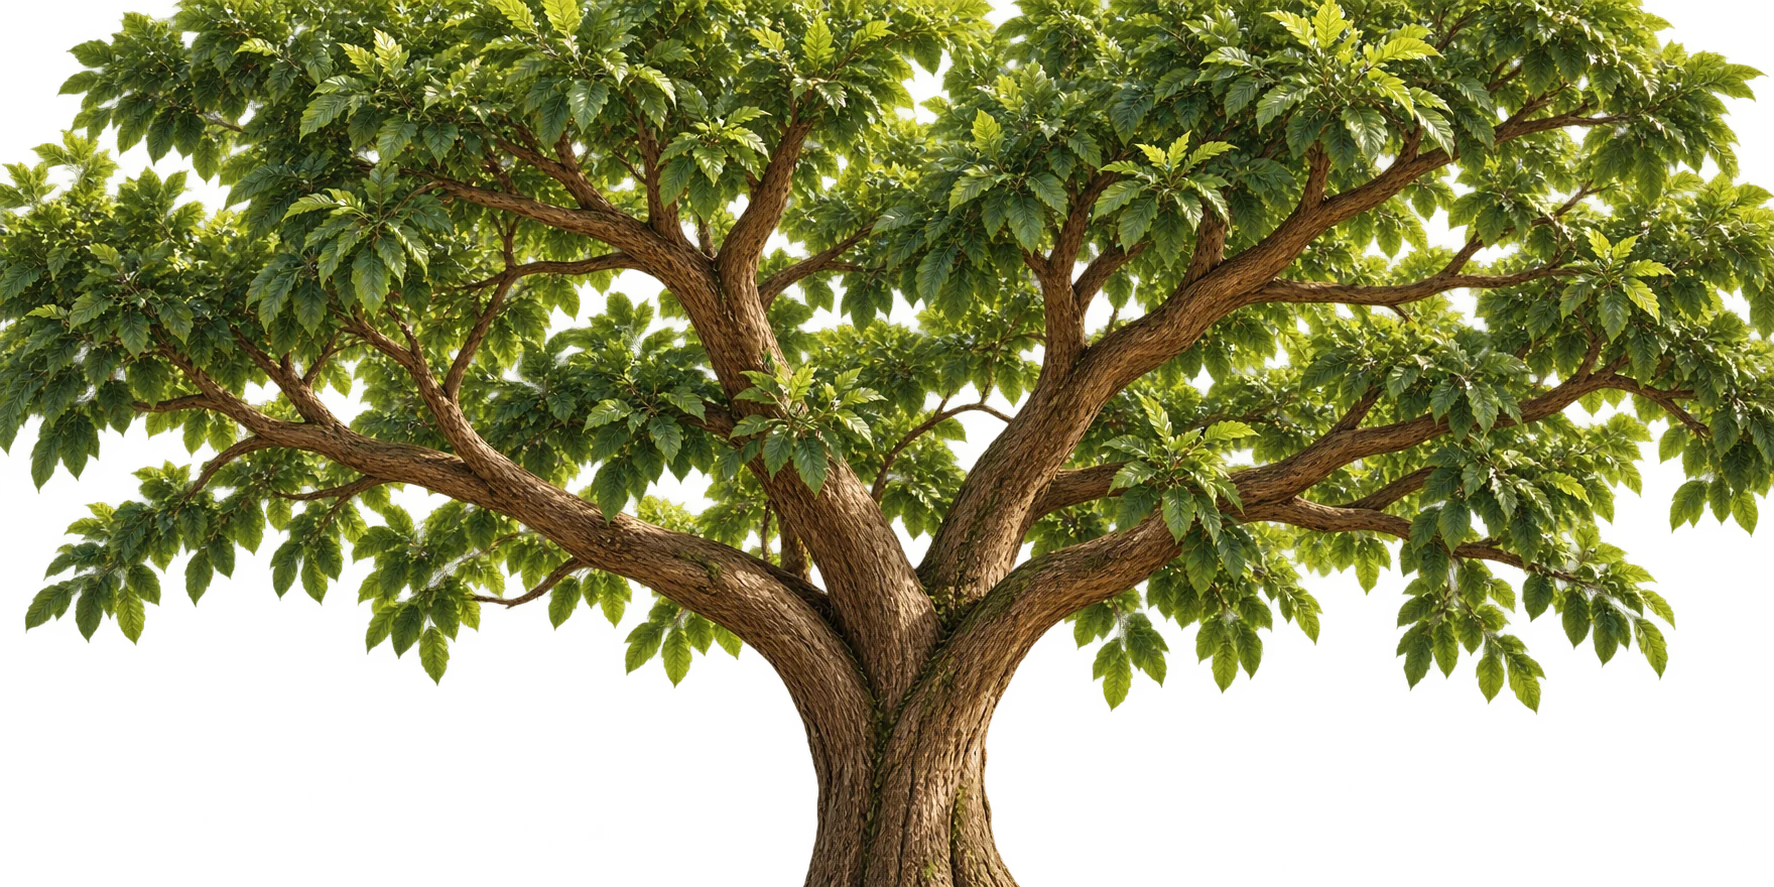
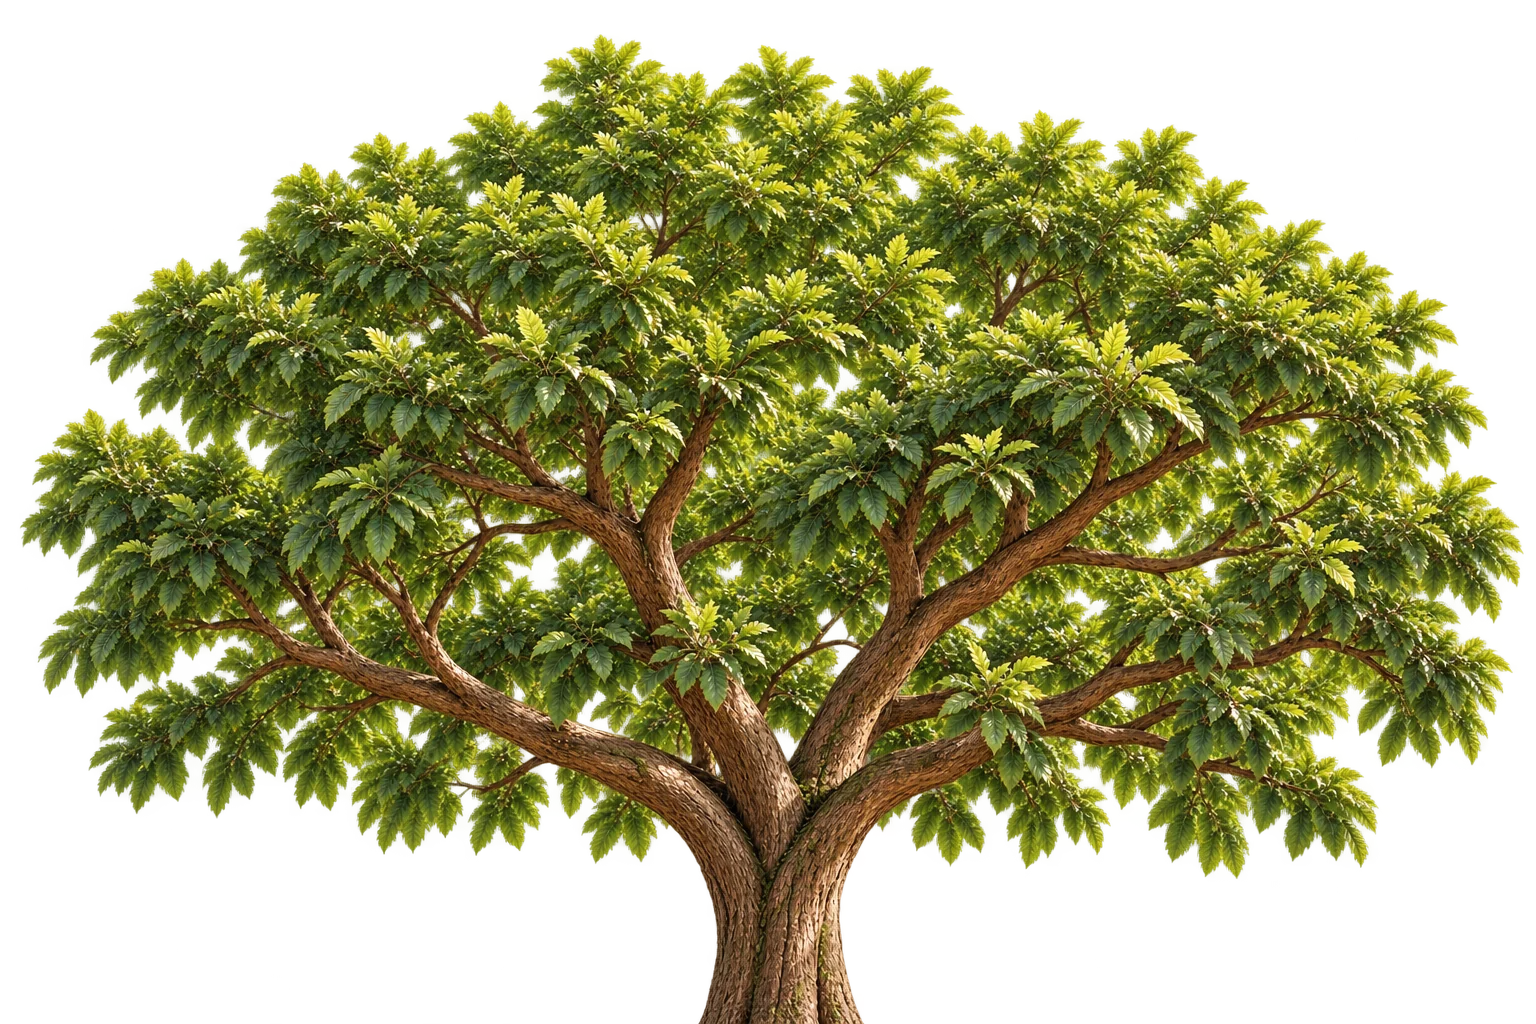
Muestra la copa completa del arbol en Historia

diff --git a/frontend/src/components/HistoryTimeline.css b/frontend/src/components/HistoryTimeline.css
@@ -15,8 +15,9 @@
   overflow-x: clip;
   overflow-y: visible;
 }
-.history-timeline { max-width: 1200px; margin: 0 auto 32px; position: relative; }
-.history-timeline-intro { position: absolute; top: 12px; left: 0; width: 33%; z-index: 5; }
+/* Reserve the complete 3:2 crown before placing the text and timeline. */
+.history-timeline { --canopy-width: min(calc(100vw - 56px), 960px); --canopy-height: calc(var(--canopy-width) * 2 / 3); --canopy-clearance: calc(var(--canopy-height) * .82); max-width: 1200px; margin: 0 auto 32px; position: relative; }
+.history-timeline-intro { position: absolute; top: calc(var(--canopy-clearance) + 12px); left: 0; width: 33%; z-index: 5; }
 .history-timeline-eyebrow { color: var(--history-green); font-size: 11px; font-weight: 700; letter-spacing: .2em; margin-bottom: 16px; }
 .history-timeline-intro h1 { font-family: var(--history-serif); font-size: clamp(48px, 5.2vw, 68px); font-weight: 600; line-height: .98; letter-spacing: -.045em; color: var(--history-ink); overflow-wrap: anywhere; }
 .history-small-rule { display: block; width: 34px; height: 2px; background: var(--history-earth); margin: 18px 0; }
@@ -27,14 +28,14 @@
 .history-origin-link:hover { color: var(--history-ink); }
 .history-timeline-intro .history-reference-note { color: var(--history-muted); font-size: 11px; margin-top: 2px; }
 .history-origin-link:focus-visible, .history-full-story summary:focus-visible { outline: 2px solid var(--history-green); outline-offset: 4px; border-radius: 2px; }
-.history-tree-motto { position: absolute; right: -8px; top: -4px; width: 144px; height: 144px; display: flex; flex-direction: column; align-items: center; justify-content: center; background: var(--history-wash); border-radius: 50%; font-family: var(--history-serif); font-style: italic; font-size: 21px; color: var(--history-ink); line-height: 1.3; z-index: 5; }
+.history-tree-motto { position: absolute; right: -8px; top: calc(var(--canopy-clearance) - 4px); width: 144px; height: 144px; display: flex; flex-direction: column; align-items: center; justify-content: center; background: var(--history-wash); border-radius: 50%; font-family: var(--history-serif); font-style: italic; font-size: 21px; color: var(--history-ink); line-height: 1.3; z-index: 5; }
 .history-tree-motto svg { position: absolute; right: 25px; bottom: 25px; }
 .history-garden { --root-width: min(104vw, 1200px); --root-height: calc(var(--root-width) * .5); position: relative; padding-bottom: calc(var(--root-height) - 80px); }
 .history-botanical-tree { position: absolute; inset: 0; pointer-events: none; }
-.history-tree-crown { position: absolute; top: -580px; left: 50%; transform: translateX(-50%); width: min(140vw, 1500px); max-width: none; height: auto; mask-image: linear-gradient(to bottom, black 80%, transparent); }
-.history-tree-trunk { position: absolute; top: 40px; left: calc(50% - 170px); width: 340px; max-width: none; height: calc(100% - var(--root-height) + 140px); object-fit: fill; mask-image: linear-gradient(to bottom, transparent, black 10px, black calc(100% - 80px), transparent); }
+.history-tree-crown { position: absolute; top: 0; left: 50%; transform: translateX(-50%); width: var(--canopy-width); max-width: 100%; height: auto; object-fit: contain; mask-image: linear-gradient(to bottom, black 92%, transparent); }
+.history-tree-trunk { position: absolute; top: calc(var(--canopy-height) * .8); left: calc(50% - 170px); width: 340px; max-width: none; height: calc(100% - var(--root-height) + 180px - var(--canopy-height) * .8); object-fit: fill; mask-image: linear-gradient(to bottom, transparent, black 10px, black calc(100% - 80px), transparent); }
 .history-tree-roots { position: absolute; bottom: 0; left: 50%; transform: translateX(-50%); width: var(--root-width); height: var(--root-height); max-width: none; object-fit: fill; mask-image: linear-gradient(to bottom, transparent, black 90px); }
-.history-timeline-list { list-style: none; padding: 168px 0 0; margin: 0; position: relative; }
+.history-timeline-list { list-style: none; padding: calc(var(--canopy-clearance) + 168px) 0 0; margin: 0; position: relative; }
 .history-timeline-event { display: grid; grid-template-columns: minmax(0, 1fr) 180px minmax(0, 1fr); align-items: center; position: relative; min-height: 370px; padding: 0 0 24px; }
 .history-timeline-event + .history-timeline-event { margin-top: -28px; }
 .history-timeline-event:nth-child(2) { margin-top: 16px; }
@@ -66,7 +67,6 @@
   .history-timeline-story { padding: 24px 22px; }
   .history-timeline-story h3 { font-size: 24px; }
   .history-timeline-story p { font-size: 13px; }
-  .history-tree-crown { top: -510px; }
   .history-tree-trunk { width: 290px; left: calc(50% - 145px); }
   .history-tree-motto { width: 124px; height: 124px; font-size: 18px; }
   .history-tree-motto svg { right: 18px; bottom: 20px; }
@@ -75,6 +75,7 @@
 }
 @media (max-width: 900px) {
   #historia { padding-top: 72px; }
+  .history-timeline { --canopy-width: min(calc(100vw - 56px), 560px); }
   .history-timeline-intro { position: relative; top: auto; width: 100%; padding-right: 108px; margin-bottom: 36px; }
   .history-timeline-intro h1 { font-size: 52px; }
   .history-timeline-intro h2 { font-size: 21px; }
@@ -82,20 +83,19 @@
   .history-tree-motto { width: 94px; height: 94px; font-size: 16px; right: -4px; top: 30px; }
   .history-tree-motto svg { display: none; }
   .history-garden { --root-width: min(140vw, 800px); padding-bottom: calc(var(--root-height) - 24px); }
-  .history-tree-crown { left: 28px; top: 0; width: 390px; opacity: .95; mask-image: linear-gradient(to bottom, transparent, black 35%, black 80%, transparent); }
-  .history-tree-trunk { top: 118px; left: -37px; width: 130px; height: calc(100% - var(--root-height) - 18px); mask-image: linear-gradient(to bottom, transparent, black 10px, black calc(100% - 35px), transparent); }
-  .history-tree-roots { left: 28px; mask-image: linear-gradient(to bottom, transparent, black 40px); }
-  .history-timeline-list { padding-top: 210px; }
-  .history-timeline-event { grid-template-columns: 78px minmax(0, 1fr); padding-bottom: 100px; min-height: 0; }
+  .history-tree-trunk { top: calc(var(--canopy-height) * .8); left: calc(50% - 65px); width: 130px; height: calc(100% - var(--root-height) + 100px - var(--canopy-height) * .8); mask-image: linear-gradient(to bottom, transparent, black 10px, black calc(100% - 35px), transparent); }
+  .history-tree-roots { mask-image: linear-gradient(to bottom, transparent, black 40px); }
+  .history-timeline-list { padding-top: calc(var(--canopy-height) + 72px); }
+  .history-timeline-event { grid-template-columns: minmax(0, 1fr); padding: 0 12px 120px; min-height: 0; }
   .history-timeline-event + .history-timeline-event { margin-top: 0; }
-  .history-timeline-event .history-timeline-card { grid-column: 2; grid-template-columns: minmax(0, 1.15fr) minmax(0, 1fr); border-radius: 20px; }
+  .history-timeline-event .history-timeline-card { grid-column: 1; grid-template-columns: minmax(0, 1.15fr) minmax(0, 1fr); border-radius: 20px; }
   .history-timeline-event .history-timeline-story { grid-column: 1; grid-row: 1; padding: 24px; }
   .history-timeline-event .history-timeline-photo { grid-column: 2; grid-row: 1; min-height: 240px; }
   .history-event-frame { width: calc(100% + 100px); height: calc(100% + 120px); left: -50px; top: -60px; }
   .history-event-frame.frame-left { transform: none; }
   .history-timeline-story h3 { font-size: 26px; scroll-margin-top: 124px; }
   .history-timeline-story p { font-size: 14px; }
-  .history-event-node { left: 28px; top: 90px; width: 20px; height: 20px; border-width: 3px; }
+  .history-event-node { left: 50%; top: -65px; width: 20px; height: 20px; border-width: 3px; }
   .history-tree-closing { justify-content: center; padding: 0 0 28px; }
   .history-tree-closing > p { display: none; }
   .history-growing-message { font-size: 24px; padding: 16px 28px; }
@@ -105,16 +105,12 @@
   .history-timeline-intro h1 { max-width: 200px; font-size: 46px; }
   .history-timeline-eyebrow { font-size: 9px; letter-spacing: .15em; }
   .history-tree-motto { width: 80px; height: 80px; font-size: 14px; top: 35px; }
-  .history-timeline-event { grid-template-columns: 48px minmax(0, 1fr); padding-right: 8px; }
   .history-timeline-event .history-timeline-card { grid-template-columns: minmax(0, 1fr); }
   .history-timeline-event .history-timeline-photo { grid-column: 1; grid-row: 2; min-height: 0; aspect-ratio: 4 / 3; margin: 0 20px 20px; border-radius: 18px; }
   .history-timeline-event .history-timeline-story { padding: 28px 24px 18px; }
   .history-timeline-story h3 { font-size: 25px; }
   .history-timeline-year { font-size: 21px; }
   .history-event-frame { width: calc(100% + 80px); height: calc(100% + 110px); left: -40px; top: -55px; }
-  .history-event-node { left: 18px; }
-  .history-tree-crown, .history-tree-roots { left: 18px; }
-  .history-tree-trunk { left: -47px; }
   .history-growing-message { font-size: 22px; padding: 16px 22px; }
 }
 @media (max-width: 360px) {

diff --git a/frontend/docs/history-tree-artwork.md b/frontend/docs/history-tree-artwork.md
@@ -18,7 +18,11 @@ The attached image is a STYLE REFERENCE ONLY for a botanical website. Create an 
 
 ### crown.webp
 
-The attached image is a STYLE REFERENCE ONLY for a botanical website. Create an original reusable illustration asset, NOT a website screenshot. Match its realistic, richly textured warm brown bark and lush olive / forest green broadleaf foliage, soft natural daylight, painterly photographic detail. No text, numbers, logo, UI, people, photographs, cards, icons, or watermark. Output a PNG cutout with genuinely transparent background, no white or beige background and no checkerboard painted in. This will be layered with separate live HTML and real community photos. Asset: ONLY the lush upper CANOPY and upper branching of a mature tree, a very wide landscape crown for the top of a webpage. Landscape 2:1 canvas. Dense layered green leaves spread across almost the entire width at the top, with small patches of transparent sky among the leaves. Visible warm brown boughs branch upward from one trunk that ends at the center of the bottom edge. Overall canopy is like a wide umbrella: foliage lush across the top 55%, outer lower corners mostly transparent to leave website headings readable. Real leaf detail, forest greens and golden olive highlights, intricate natural wood, no fruit, no roots. No solid backdrop; true transparent outside the leaves and branches.
+La copa se amplió con la herramienta integrada de edición de imágenes para mostrar el contorno completo, usando la ilustración realista anterior como referencia. Se conservó el canal alfa al convertir a WebP. La composición CSS reserva espacio según su proporción 3:2, sin desplazar la imagen fuera de la página; en móvil, copa, tronco y raíces comparten un eje central.
+
+Prompt seleccionado:
+
+Edit this realistic tree canopy into a COMPLETE UNCROPPED tree crown cutout. Preserve the existing realistic bark, broadleaf foliage and warm natural daylight style. Zoom out and extend the upper and side foliage so the ENTIRE rounded umbrella-shaped canopy is visible. Leave a generous transparent margin (at least 8% of canvas) above the highest leaf and to the left and right of the outermost leaves. Absolutely no leaves or branches may touch any top or side image edge. Only the short central trunk may continue to the bottom edge so it can join a separate trunk on a website. Dense natural olive and forest green foliage, detailed warm brown boughs. Transparent PNG with true alpha transparency, including between leaves. No backdrop, no landscape, no checkerboard, no text. Landscape 3:2 composition. This is an isolated realistic tree crown asset, not a whole tree, no roots.
 
 ### roots.webp
 
